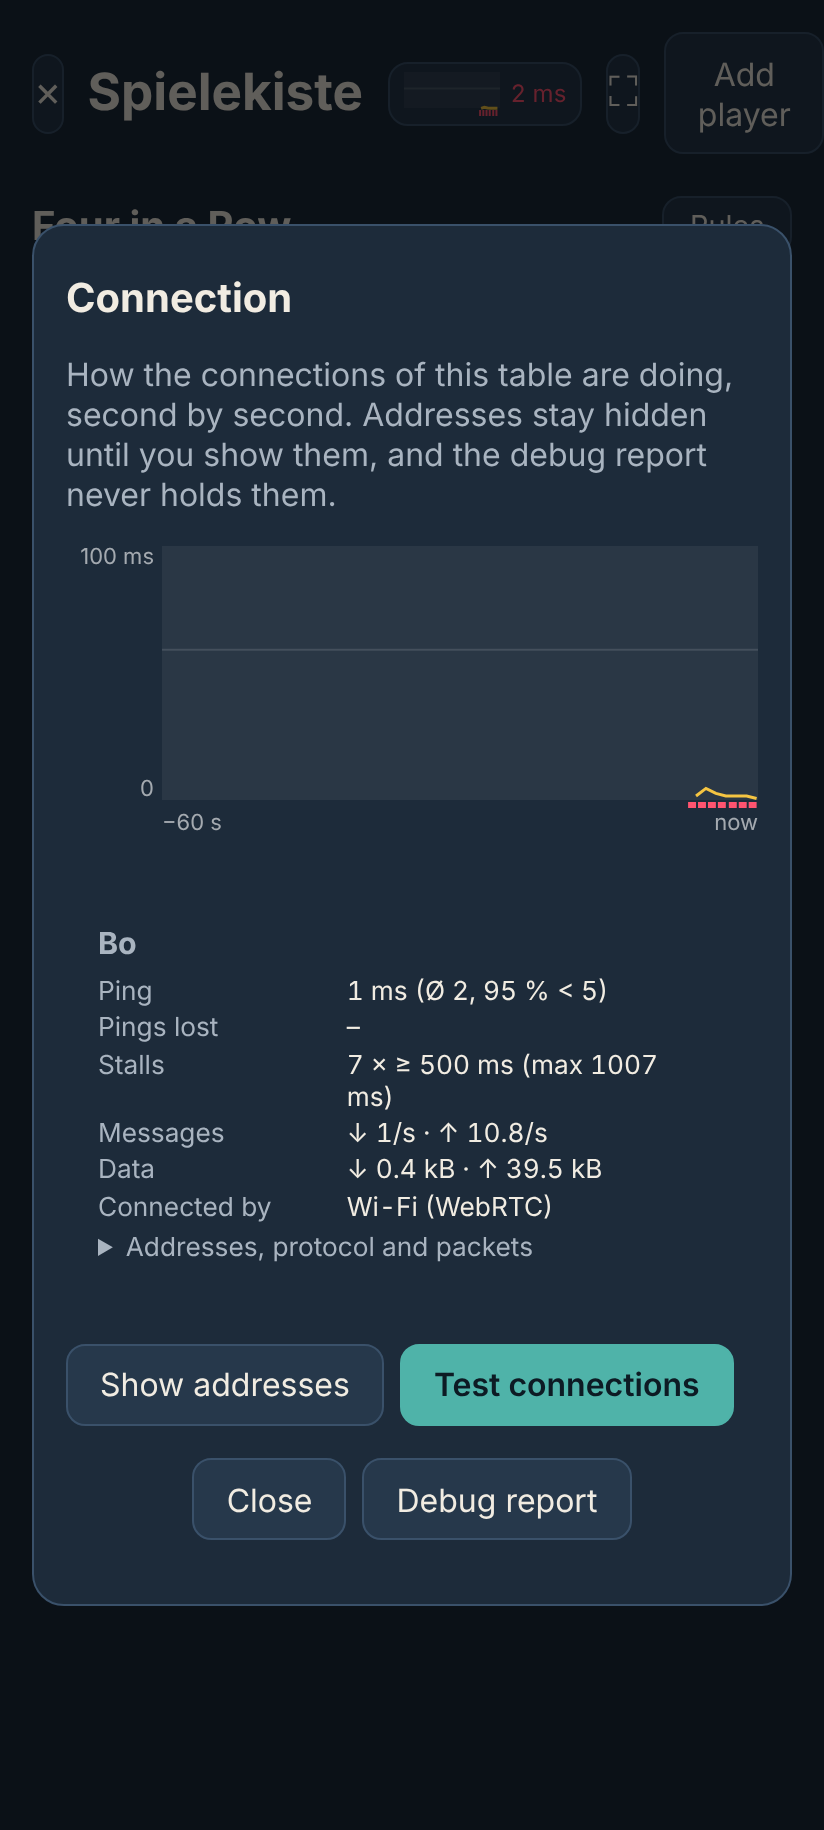
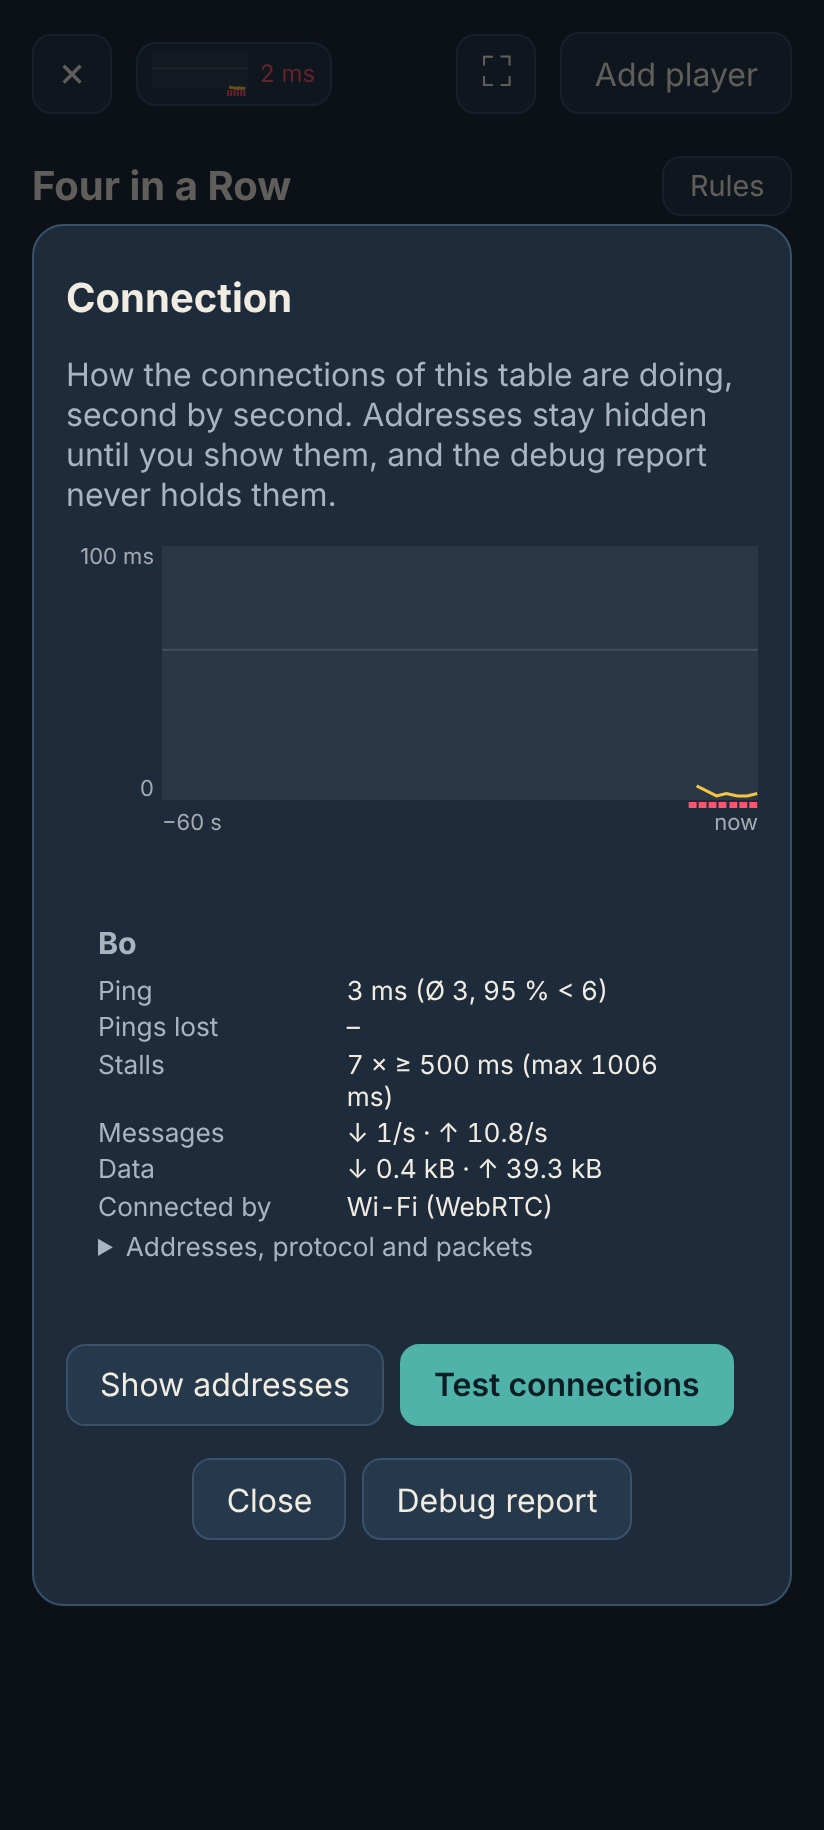
Keep the table's top line inside a narrow phone
At a table with other phones, the top line held the close button, the
title, the connection, full screen and Add player, and stuck out past the
right edge of phones narrower than about 395px. Now the buttons keep their
size, and below 32rem the connection takes the title's place (screen
readers still read it); below 24rem the gaps and Add player's padding get
smaller, so German's "Mitspieler hinzufügen" fits at 320px too. A browser
test checks the line at 320, 360 and 390px.

Claude-Session: https://claude.ai/code/session_01LTkkJNip3KREArBMmKd7y7

diff --git a/tests/e2e/connection.spec.ts b/tests/e2e/connection.spec.ts
@@ -56,6 +56,31 @@ test('the table shows the connection, the host tests it, and the report holds it
   await expect(ada.locator('.modal')).toHaveCount(0)
 })
 
+test('the table’s top line fits a narrow phone, with the connection and Add player', async ({
+  browser,
+}) => {
+  const ada = await phone(browser, 'Ada')
+  const bo = await phone(browser, 'Bo')
+  await ada.getByRole('button', { name: 'Open a table' }).click()
+  await seat(ada, bo)
+  await expect(ada.locator('header button.net')).toContainText(/\d+ ms/, { timeout: 5000 })
+  for (const width of [320, 360, 390]) {
+    await ada.setViewportSize({ width, height: 800 })
+    for (const element of await ada.locator('header > *').all()) {
+      const box = await element.boundingBox()
+      // Hidden ones, such as full screen where the browser has none, take no room.
+      if (box)
+        expect(
+          box.x + box.width,
+          await element.evaluate((e) => e.outerHTML.slice(0, 40)),
+        ).toBeLessThanOrEqual(width)
+    }
+    expect(await ada.evaluate(() => document.documentElement.scrollWidth)).toBeLessThanOrEqual(
+      width,
+    )
+  }
+})
+
 test('the settings make a debug report, to read before sending it', async ({ browser }) => {
   const ada = await phone(browser, 'Ada')
   await ada.getByRole('button', { name: 'Settings' }).click()

diff --git a/src/style.css b/src/style.css
@@ -61,8 +61,46 @@ header {
   margin-bottom: 1rem;
 }
 
+/* On a narrow phone, the title gives way to the buttons beside it, which keep their size. */
 header h1 {
   flex: 1;
+  min-width: 0;
+  overflow: hidden;
+  text-overflow: ellipsis;
+  white-space: nowrap;
+}
+
+header > button {
+  flex: none;
+}
+
+header > button.add {
+  flex: 0 1 auto;
+}
+
+/* At a table on a phone, the connection takes the title's place; screen readers keep it. */
+@media (max-width: 32rem) {
+  header:has(> button.net:not([hidden])) h1 {
+    position: absolute;
+    width: 1px;
+    height: 1px;
+    overflow: hidden;
+    clip-path: inset(50%);
+  }
+
+  header:has(> button.net:not([hidden])) > button.net {
+    margin-right: auto;
+  }
+}
+
+@media (max-width: 24rem) {
+  header {
+    gap: 0.4rem;
+  }
+
+  header > button.add {
+    padding-inline: 0.55rem;
+  }
 }
 
 button,

diff --git a/CHANGELOG.md b/CHANGELOG.md
@@ -65,6 +65,7 @@ All changes players can notice are listed here. The format follows [Keep a Chang
 
 ### Fixed
 
+- At a table on a narrow phone, the top line no longer sticks out past the right edge: the connection takes the title's place, and _Add player_ fits beside it.
 - A name typed on the start screen stays when you visit the settings or change the language, instead of being forgotten.
 - A Bluetooth player the host let in whose phone never connects no longer stays on _Connecting…_ in the host's list: after 30 seconds, the list says the other phone did not answer in time.
 - Over a weak Wi-Fi, a player's phone no longer goes back to an older table for a moment when the host's messages arrive out of order.
